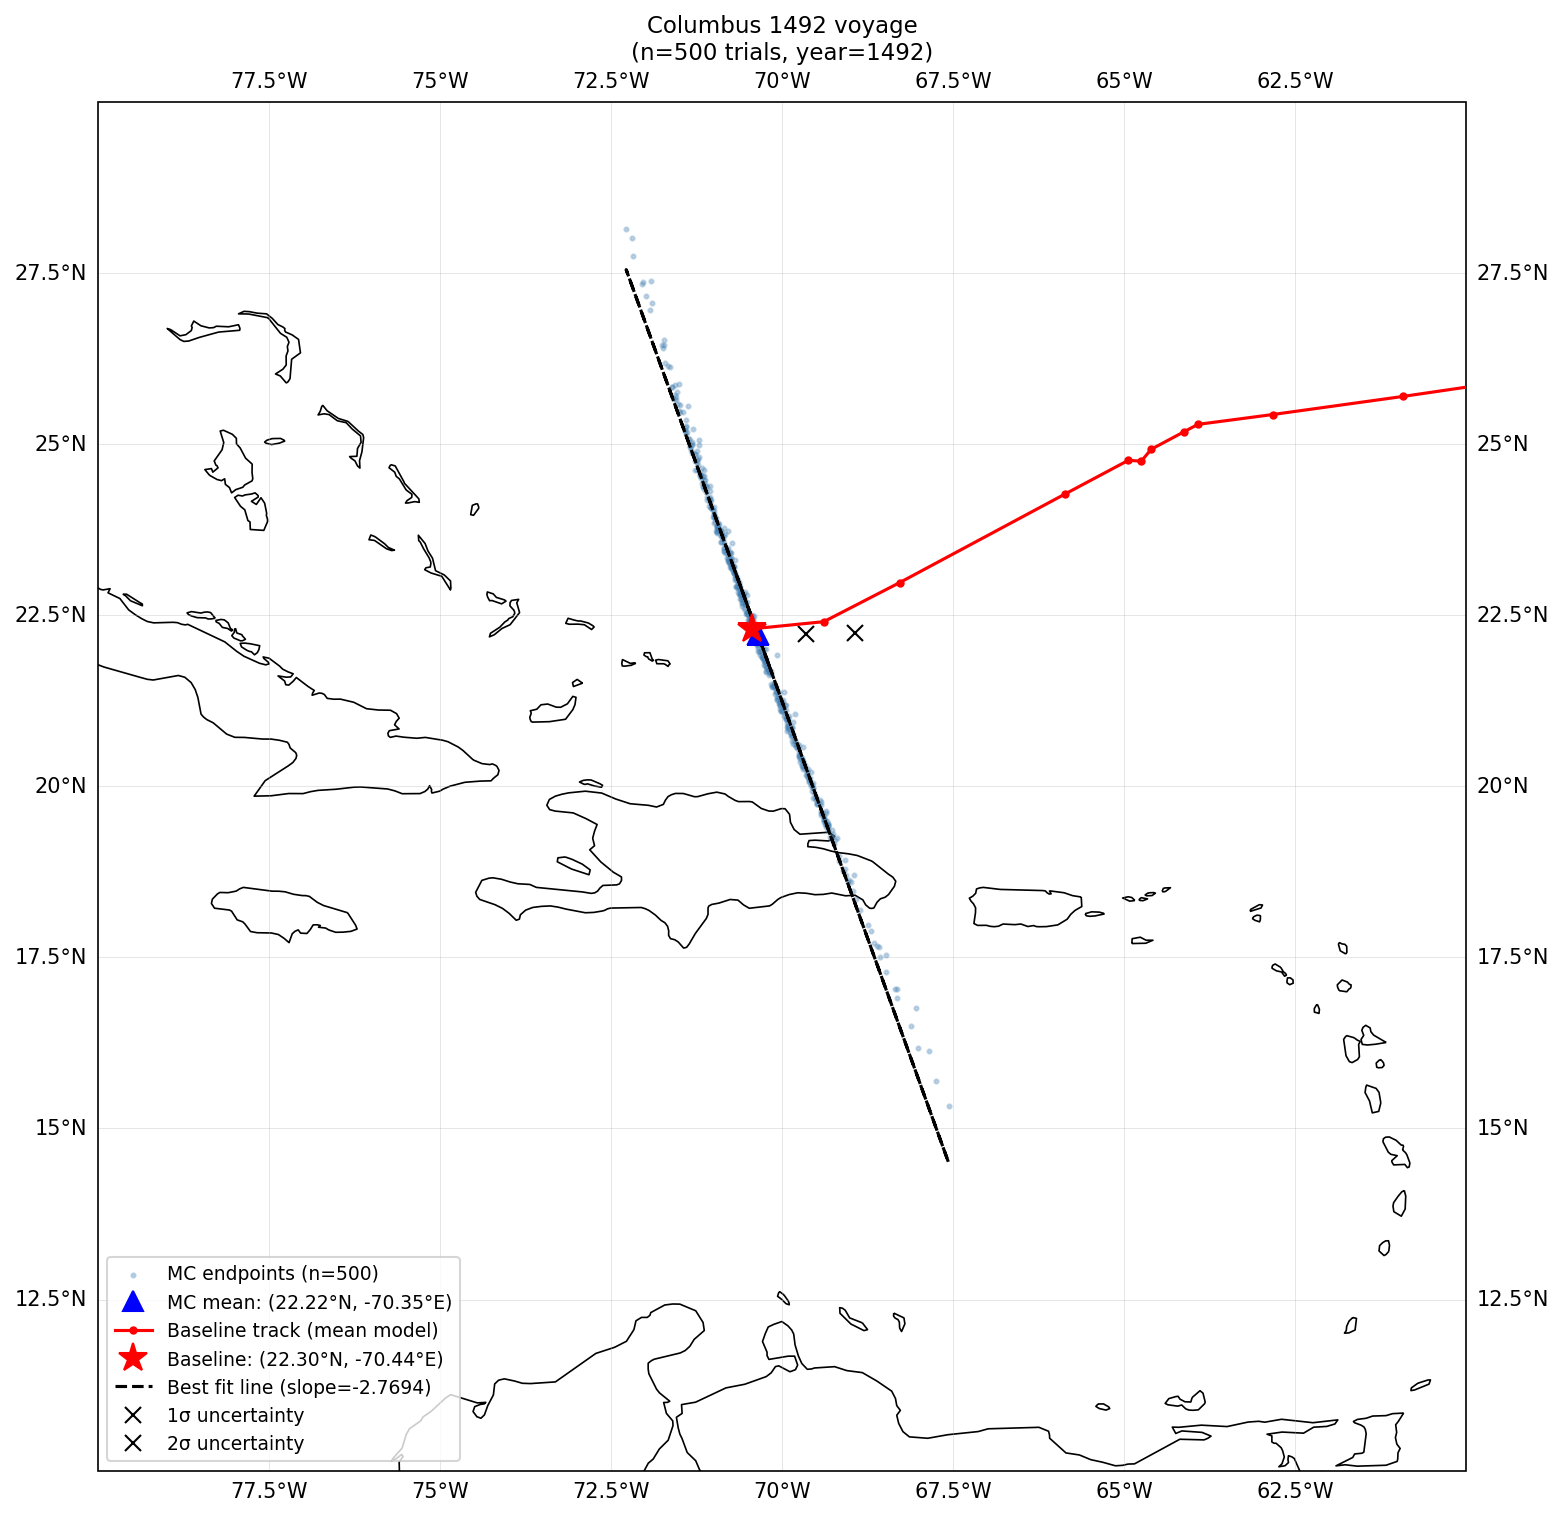
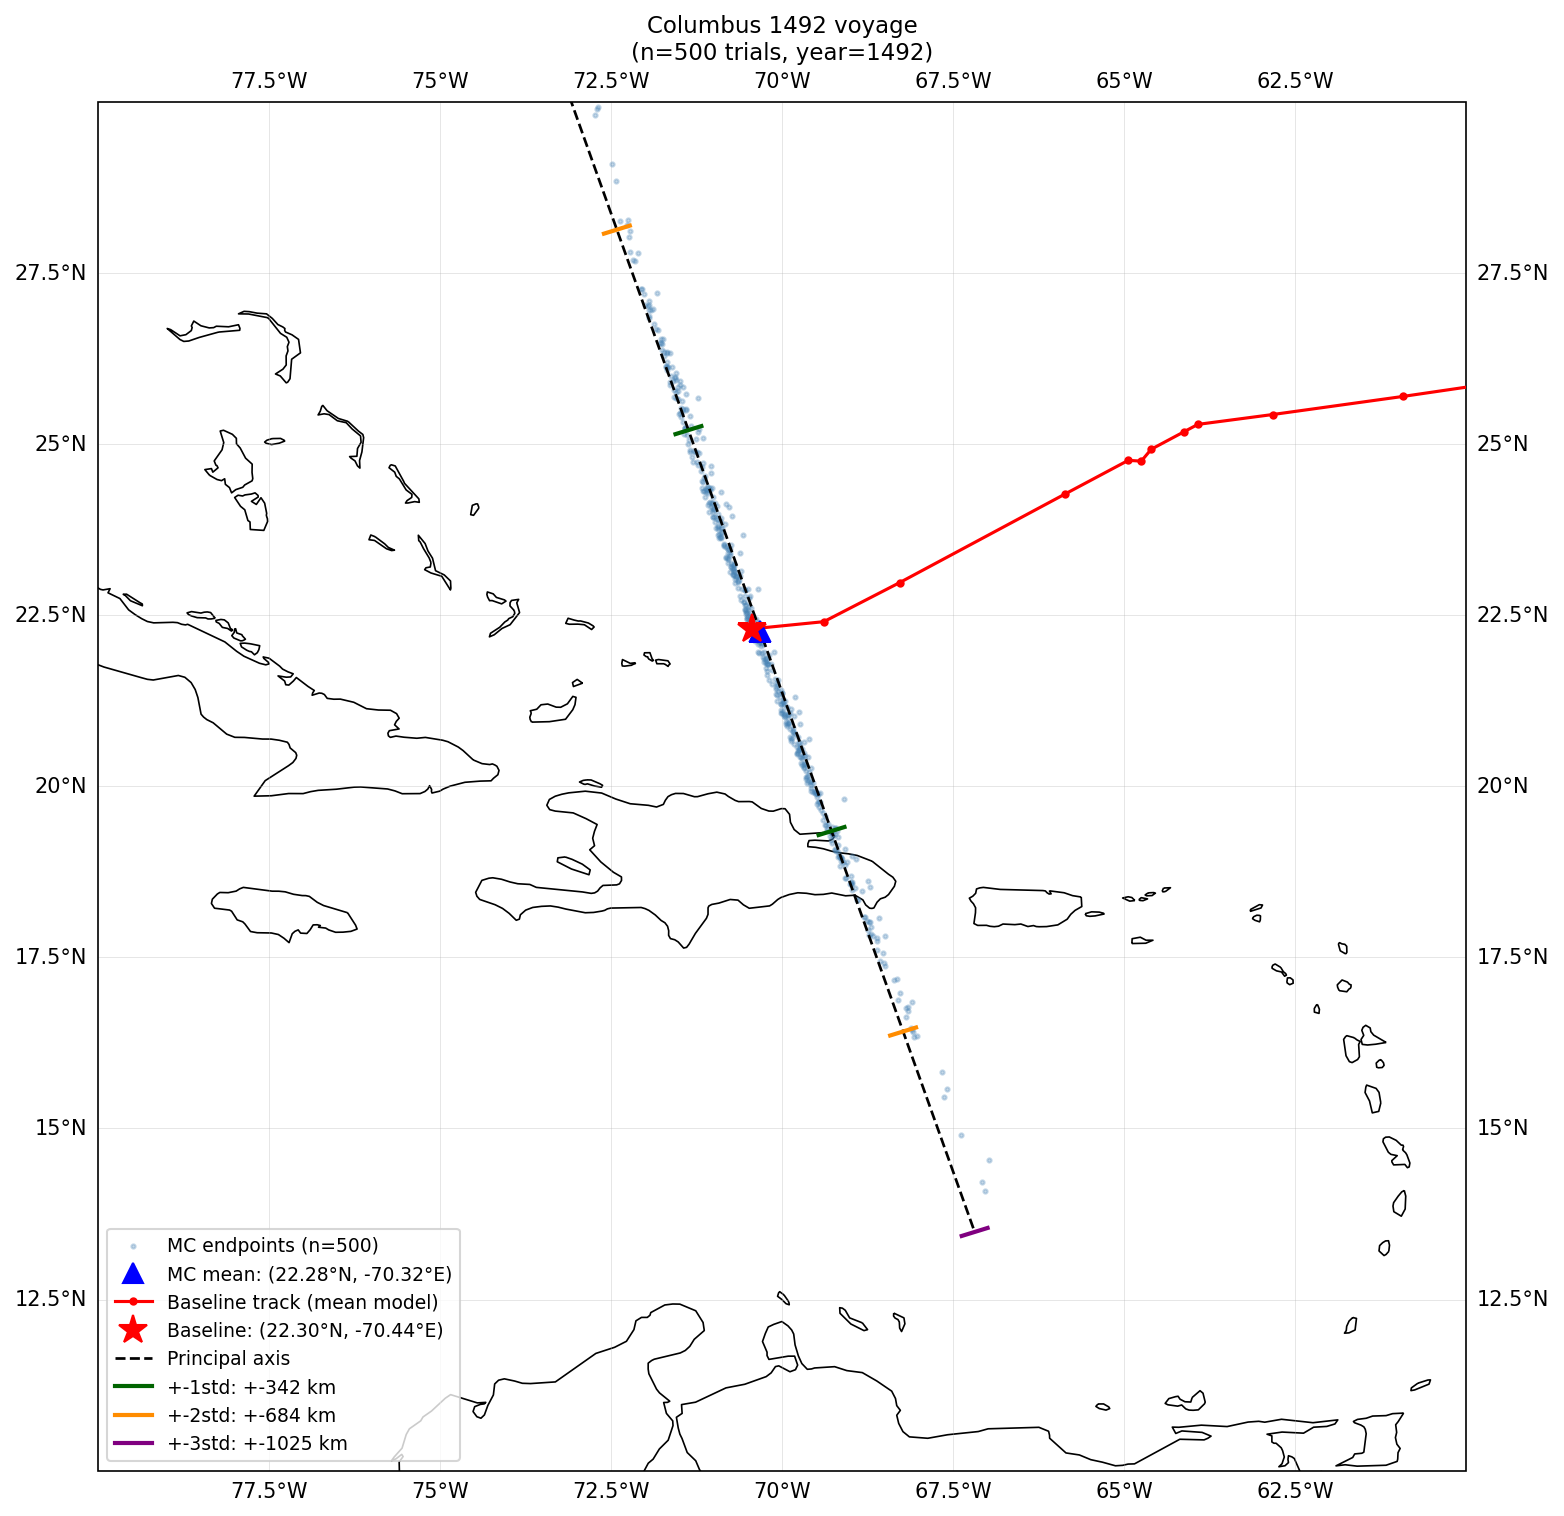
Change uncertainty calculations to vary all spline weights for a single harmonic based on a single random normal variable.  Add isogonic_perturbed.py to display isogonic plots for random fields based on CALS3k.4b uncertainty calculations

diff --git a/declination_uncertainty.py b/declination_uncertainty.py
@@ -1,12 +1,10 @@
 import math
-import copy
 import tempfile
 import os
 
 import numpy as np
 from cartopy import crs as ccrs
 from matplotlib import pyplot as plt
-from matplotlib.patches import Ellipse
 from geographiclib.geodesic import Geodesic
 from pymagglobal import Model, local_curve
 
@@ -93,12 +91,64 @@ def write_model_file(path, knot_years, coeffs, n_degree, n_splines, t_start, t_e
             f.write(f"  {val:.15e}")
         f.write("\n")
 
+
+def endpoint_axis(final_lats, final_lons):
+    """
+    Straight line of best fit for monte carlo sim endpoints
+    """
+    mean_lat = float(np.mean(final_lats))
+    mean_lon = float(np.mean(final_lons))
+
+    east_scale = geod.Inverse(mean_lat, mean_lon - 0.005,
+                              mean_lat, mean_lon + 0.005)['s12'] / 10
+    north_scale = geod.Inverse(mean_lat - 0.005, mean_lon,
+                               mean_lat + 0.005, mean_lon)['s12'] / 10
+
+    xy = np.column_stack(((np.asarray(final_lons) - mean_lon) * east_scale,
+                          (np.asarray(final_lats) - mean_lat) * north_scale))
+    xy = np.asarray(xy)
+
+    center = xy.mean(axis=0)
+    centered = xy - center
+
+    values, vectors = np.linalg.eigh(np.cov(centered, rowvar=False))
+
+    axis = vectors[:, -1]
+    if axis[0] < 0:
+        axis = -axis
+
+    along = centered @ axis
+    across = centered @ np.array([-axis[1], axis[0]])
+
+    return dict(lat=mean_lat, lon=mean_lon, center=center, axis=axis,
+                east_scale=east_scale, north_scale=north_scale,
+                along=along, sigma=float(np.std(along, ddof=1)),
+                cross_sigma=float(np.std(across, ddof=1)))
+
+
+def axis_coordinates(stats, distances, cross=0.0):
+    """
+    Convert distances along/across the fitted axis back to map coordinates
+    """
+    axis = stats['axis']
+    perpendicular = np.array([-axis[1], axis[0]])
+    points = []
+
+    for distance in distances:
+        east, north = stats['center'] + distance * axis + cross * perpendicular
+        points.append((stats['lon'] + east / stats['east_scale'],
+                       stats['lat'] + north / stats['north_scale']))
+
+    return np.asarray(points).T
+
+
 def simulate_voyage(model, year=YEAR):
     """
     Simulate the voyage using the given model, returning lists of latitudes and longitudes.
     """
     lats = [start_lat]
     lons = [start_lon]
+
     for leg in course:
         _, _, _, bearing, distance = leg
         loc = (lats[-1], lons[-1])
@@ -107,12 +157,15 @@ def simulate_voyage(model, year=YEAR):
         result = geod.Direct(loc[0], loc[1], corrected, leagues_to_m(distance))
         lats.append(result['lat2'])
         lons.append(result['lon2'])
+
     return lats, lons
 
 def run_monte_carlo(model_path, n_trials=N_TRIALS, seed=RNG_SEED):
     """
     Monte Carlo sim
-    Perturbs model coefficients based on uncertainties for each trial
+    Perturbs model coefficients based on uncertainties for each trial.
+    Each harmonic coefficient has an independent normal draw shared across
+    all spline rows, matching the fortran interpolation of standard deviations
     """
     rng = np.random.default_rng(seed)
 
@@ -135,10 +188,8 @@ def run_monte_carlo(model_path, n_trials=N_TRIALS, seed=RNG_SEED):
             if (trial + 1) % 50 == 0:
                 print(f"Trial {trial + 1}/{n_trials} ...")
 
-            # Array of normal standard normally distributed perturbations in shape of coefficients
-            perturbation = rng.standard_normal(mu.shape)
-            # Perturb coefficients based on uncertainties and normal random draw
-            coeffs_perturbed = mu + sigma * perturbation
+            # One draw per harmonic coefficient, shared across each spline row
+            coeffs_perturbed = mu + sigma * rng.standard_normal((1, mu.shape[1]))
 
             # Write temporary model file with perturbed coefficients
             write_model_file(tmp_path, knot_years, coeffs_perturbed,
@@ -164,18 +215,9 @@ def print_statistics(base_final, final_lats, final_lons):
     """
     mean_lat = np.mean(final_lats)
     mean_lon = np.mean(final_lons)
-    best_fit = np.polyfit(final_lons, final_lats, 1)
-
-    # Distance from baseline to MC mean
+    stats = endpoint_axis(final_lats, final_lons)
     dist_result = geod.Inverse(base_final[0], base_final[1], mean_lat, mean_lon)
     mean_offset_km = dist_result['s12'] / 1000
-
-    # 1-sigma and 2-sigma spread in km (approximate, using lat std as proxy)
-    dists_km = []
-    for la, lo in zip(final_lats, final_lons):
-        r = geod.Inverse(mean_lat, mean_lon, la, lo)
-        dists_km.append(r['s12'] / 1000)
-    dists_km = np.array(dists_km)
 
     print("\n" + "="*55)
     print("Monte Carlo Results")
@@ -184,10 +226,12 @@ def print_statistics(base_final, final_lats, final_lons):
     print(f"  Baseline final     : {base_final[0]:.4f}°N, {base_final[1]:.4f}°E")
     print(f"  MC mean final      : {mean_lat:.4f}°N, {mean_lon:.4f}°E")
     print(f"  Offset (base->mean): {mean_offset_km:.1f} km")
-    print(f"  Best fit slope     : {best_fit[0]:.4f}")
-    print(f"  Radial 1std spread : {np.percentile(dists_km, 68.3):.1f} km")
-    print(f"  Radial 2std spread : {np.percentile(dists_km, 95.4):.1f} km")
-    print(f"  Radial 3std spread : {np.percentile(dists_km, 99.7):.1f} km")
+    print(f"  Along-axis std    : {stats['sigma']:.1f} km")
+    print(f"  Across-axis std   : {stats['cross_sigma']:.1f} km")
+    for multiple in (1, 2, 3):
+        coverage = np.mean(np.abs(stats['along']) <= multiple * stats['sigma'])
+        print(f"  +-{multiple} std along axis: +-{multiple * stats['sigma']:.1f} km"
+              f" ({coverage:.1%} of trials)")
     print("="*55)
 
 def plot_results(base_lats, base_lons, base_final, final_lats, final_lons):
@@ -196,8 +240,7 @@ def plot_results(base_lats, base_lons, base_final, final_lats, final_lons):
     """
     mean_lat = np.mean(final_lats)
     mean_lon = np.mean(final_lons)
-    best_fit = np.polyfit(final_lons, final_lats, 1, cov=True)
-    std_dist_km = np.std([geod.Inverse(mean_lat, mean_lon, la, lo)['s12'] / 1000 for la, lo in zip(final_lats, final_lons)])
+    stats = endpoint_axis(final_lats, final_lons)
 
     fig = plt.figure(figsize=(14, 10))
     ax = plt.axes(projection=ccrs.PlateCarree())
@@ -227,14 +270,22 @@ def plot_results(base_lats, base_lons, base_final, final_lats, final_lons):
             label=f'Baseline: ({base_final[0]:.2f}°N, {base_final[1]:.2f}°E)',
             transform=ccrs.PlateCarree())
 
-    # Best fit line, with marks at std distances
-    best_fit = np.polyfit(final_lons, final_lats, 1, cov=True)
-        std_dist_km = np.std([geod.Inverse(mean_lat, mean_lon, la, lo)['s12'] / 1000 for la, lo in zip(final_lats, final_lons)])
-    ax.plot(final_lons, best_fit[0][0] * final_lons + best_fit[0][1],
-            'k--', linewidth=1.5, zorder=5,
-            label=f'Best fit line (slope={best_fit[0][0]:.4f})',
-            transform=ccrs.PlateCarree())
-    ax.
+    # Orthogonal best-fit axis in physical distance, with perpendicular bars.
+    extent = max(3 * stats['sigma'], float(np.max(np.abs(stats['along']))), 1.0)
+    lon, lat = axis_coordinates(stats, np.linspace(-extent, extent, 100))
+    ax.plot(lon, lat, 'k--', linewidth=1.3, zorder=5,
+            label='Principal axis', transform=ccrs.PlateCarree())
+    cap = max(0.06 * stats['sigma'], 5.0)
+    for multiple, color in zip((1, 2, 3), ('darkgreen', 'darkorange', 'purple')):
+        for sign in (-1, 1):
+            distance = sign * multiple * stats['sigma']
+            ends = [axis_coordinates(stats, [distance], cross=c)[:, 0]
+                    for c in (-cap, cap)]
+            ax.plot([ends[0][0], ends[1][0]], [ends[0][1], ends[1][1]],
+                    color=color, linewidth=2, zorder=8,
+                    label=(f"+-{multiple}std: +-{multiple * stats['sigma']:.0f} km"
+                           if sign == 1 else None),
+                    transform=ccrs.PlateCarree())
 
     ax.legend(loc='lower left', fontsize=9)
     ax.set_title(

diff --git a/isogonic_perturbed.py b/isogonic_perturbed.py
@@ -1,0 +1,63 @@
+"""Compare four perturbed 1492 declination maps using the original isogonic.py plotting code."""
+from pathlib import Path
+import tempfile
+
+import numpy as np
+from cartopy import crs as ccrs
+from matplotlib import pyplot as plt
+from pymagglobal import Model, field
+from pymagglobal.utils import get_grid
+
+from declination_uncertainty import (
+    parse_cals3k_4b, write_model_file,
+)
+
+# If a different model is used you'd have to modify the parser
+MODEL_PATH = 'CALS3k.4b'
+YEAR = 1492
+RNG_SEED = 42
+
+model_path = Path(__file__).resolve().parent / MODEL_PATH
+
+knots, mu, sigma, degree, nspl, start, end = parse_cals3k_4b(model_path)
+
+rng = np.random.default_rng(RNG_SEED)
+
+grid = get_grid(2000, t=YEAR)
+grid[1] -= 180
+
+proj = ccrs.Mercator()
+
+fig, axes = plt.subplots(2, 2, figsize=(20, 12),
+                            subplot_kw={'projection': proj})
+
+pts = proj.transform_points(ccrs.Geodetic(), grid[1], 90 - grid[0])
+plt_lon, plt_lat = pts[:, 0], pts[:, 1]
+levels = np.arange(-180, 181, 10)
+
+with tempfile.TemporaryDirectory() as tmp:
+    for number, ax in enumerate(axes.flat, 1):
+        path = str(Path(tmp) / f'perturbed_{number}.dat')
+
+        coefficients = mu + sigma * rng.standard_normal((1, mu.shape[1]))
+
+        write_model_file(path, knots, coefficients, degree, nspl, start, end)
+        model = Model(f'perturbed_{number}', fname=path)
+
+        declination, inclination, intensity = field(grid, model, field_type='dif')
+        ax.tricontourf(plt_lon, plt_lat, declination,
+                        levels=levels, cmap='RdBu_r', extend='both')
+        ax.tricontour(plt_lon, plt_lat, declination,
+                        levels=levels, colors='k', linewidths=0.5, alpha=0.5)
+        ax.tricontour(plt_lon, plt_lat, declination,
+                        levels=[0], colors='gold', linewidths=2.0)
+        ax.set_global()
+        ax.coastlines()
+        ax.set_title(f'Model {number}')
+
+fig.suptitle(f'CALS3k.4b, {YEAR} — four perturbed models')
+fig.tight_layout()
+fig.savefig('isogonic_perturbed.png', dpi=150., bbox_inches='tight')
+
+plt.show()
+

diff --git a/isogonic.py b/isogonic.py
@@ -41,4 +41,6 @@ ax.tricontour(plt_lon, plt_lat, declination,
 ax.set_global()
 ax.coastlines()
 
+plt.savefig('isogonic.png', dpi=150, bbox_inches='tight')
+
 plt.show()

diff --git a/README.md b/README.md
@@ -9,3 +9,6 @@ FILES:
 - declination.py - Plots course without accounting for uncertainty
 - fielduncert3k.x - Fortran program included with CALS3K for estimating uncertainties, includes a compiled version for my hardware
 - isogonic.py - Creates map showing isogonic field lines for a given geomagnetic field model and year
+- isogonic.png - Example output of the isogonic field map for year 1492
+- isogonic_perturbed.py - Shows isogonic field plots for four perturbed versions of the 1492 model
+- isogonic_perturbed.png - Example output, isogonic plots of 4 perturbed geomagnetic models for year 1492
